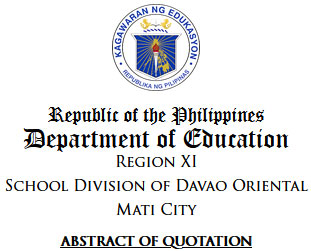
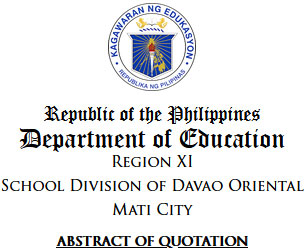
fdsa

diff --git a/style.css b/style.css
@@ -136,6 +136,12 @@ a:hover{
   text-decoration: underline;
 }
 
+
+.imgwrap{
+  text-align:center;
+  display:none;
+}
+
 .styled-form {
   display: flex;
   align-items: center;

diff --git a/abstract.php b/abstract.php
@@ -36,7 +36,7 @@
 
 
 <div class="hwrap">
-    <!-- <img class="logo" src="ke.png" alt="">
+    <img class="logo" src="ke.png" alt="">
         <p class="textwrap">
         <span class="rp">Republic of the Philippines</span>
             <span class="de">Department of Education</span>
@@ -44,9 +44,14 @@
             <span class="r">School Division of Davao Oriental</span>
             <span class="r">Mati City</span>
         </p>
-        <h1 class="na">ABSTRACT OF QUOTATION</h1> -->
-        <img class="h_image" src="heading.jpg" alt="">
+        <h1 class="na">ABSTRACT OF QUOTATION</h1>
 </div>
+
+
+<div class="imgwrap">
+<img class="h_image" src="heading.jpg" alt="">
+</div>
+
 
 
 
